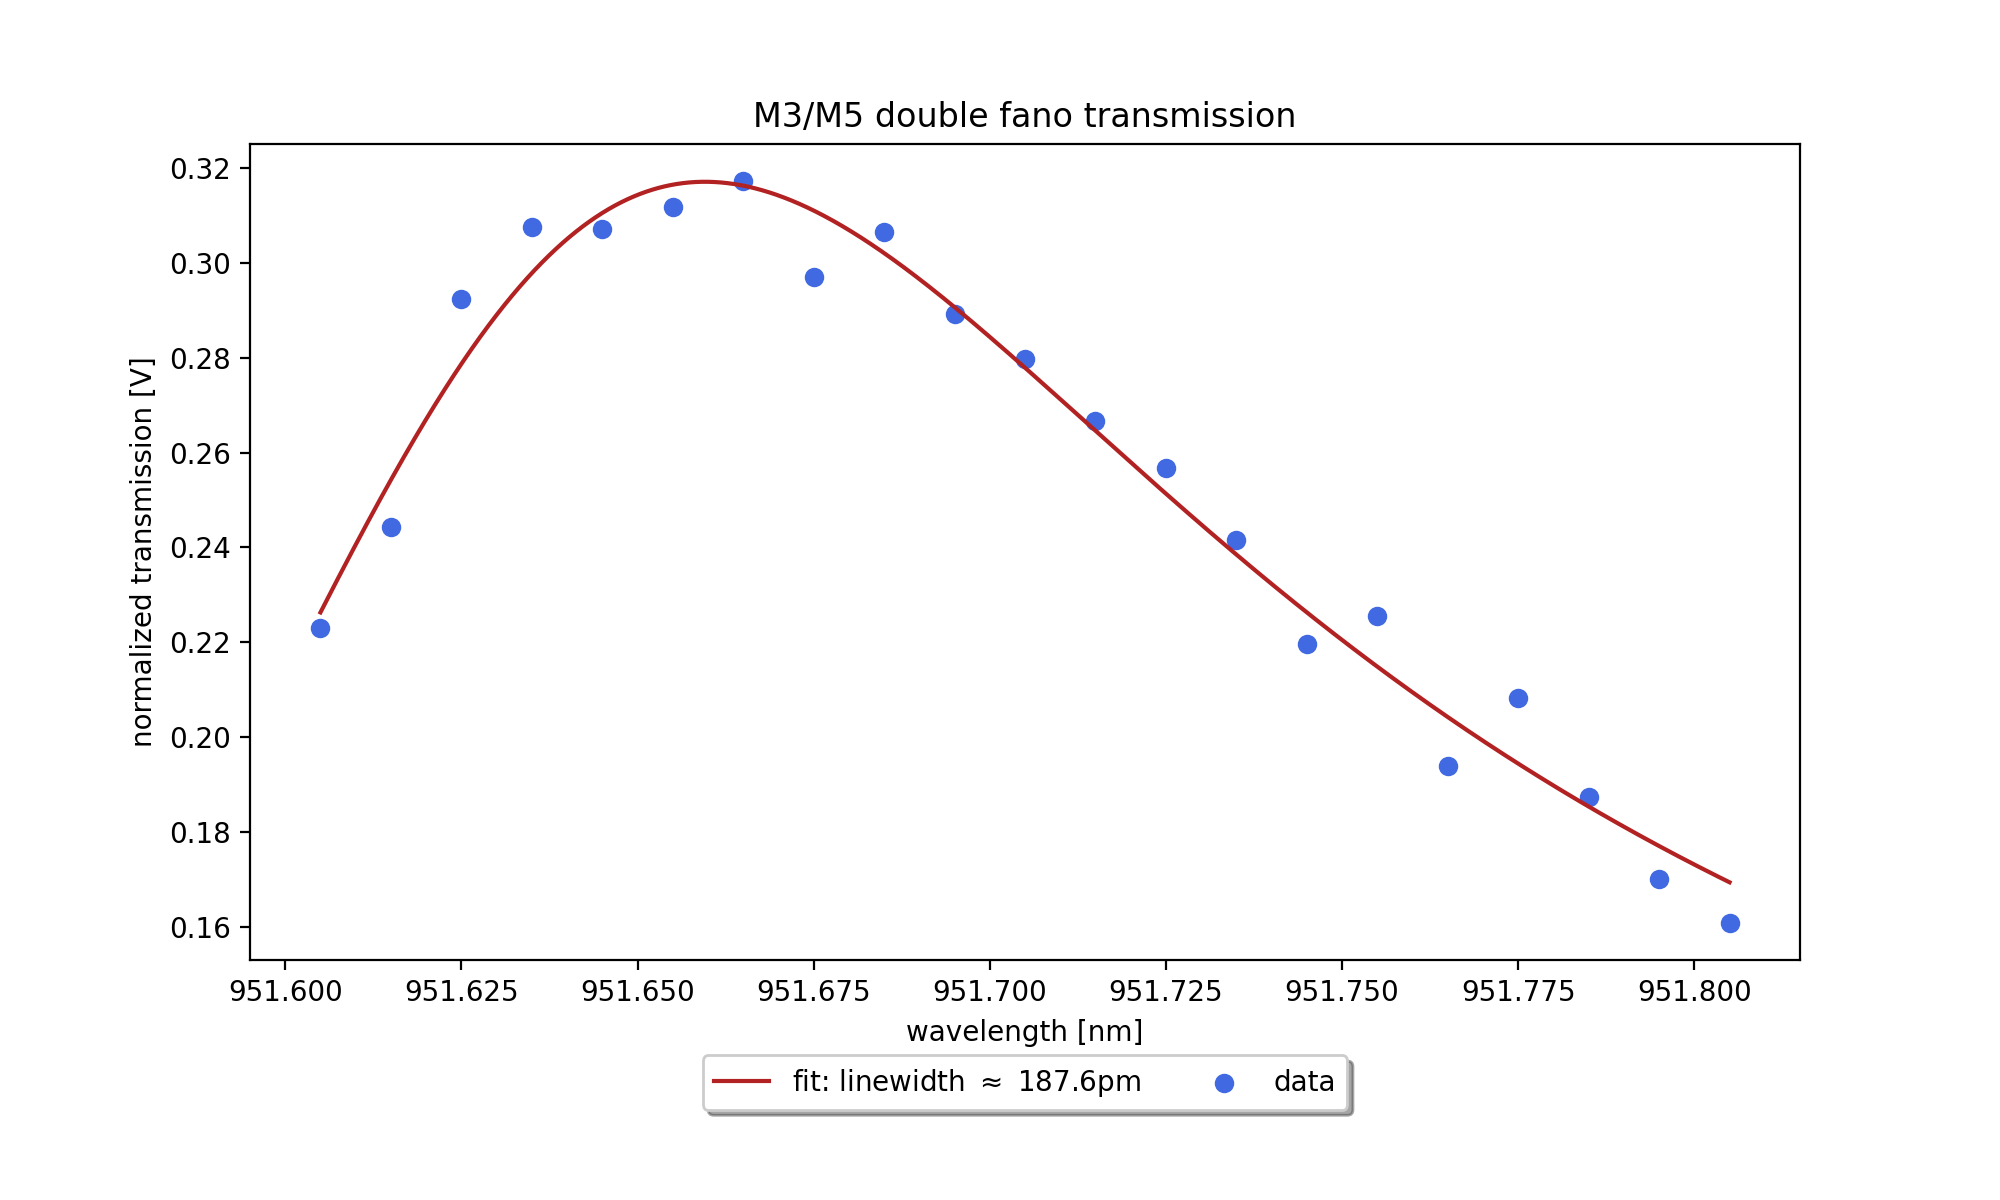
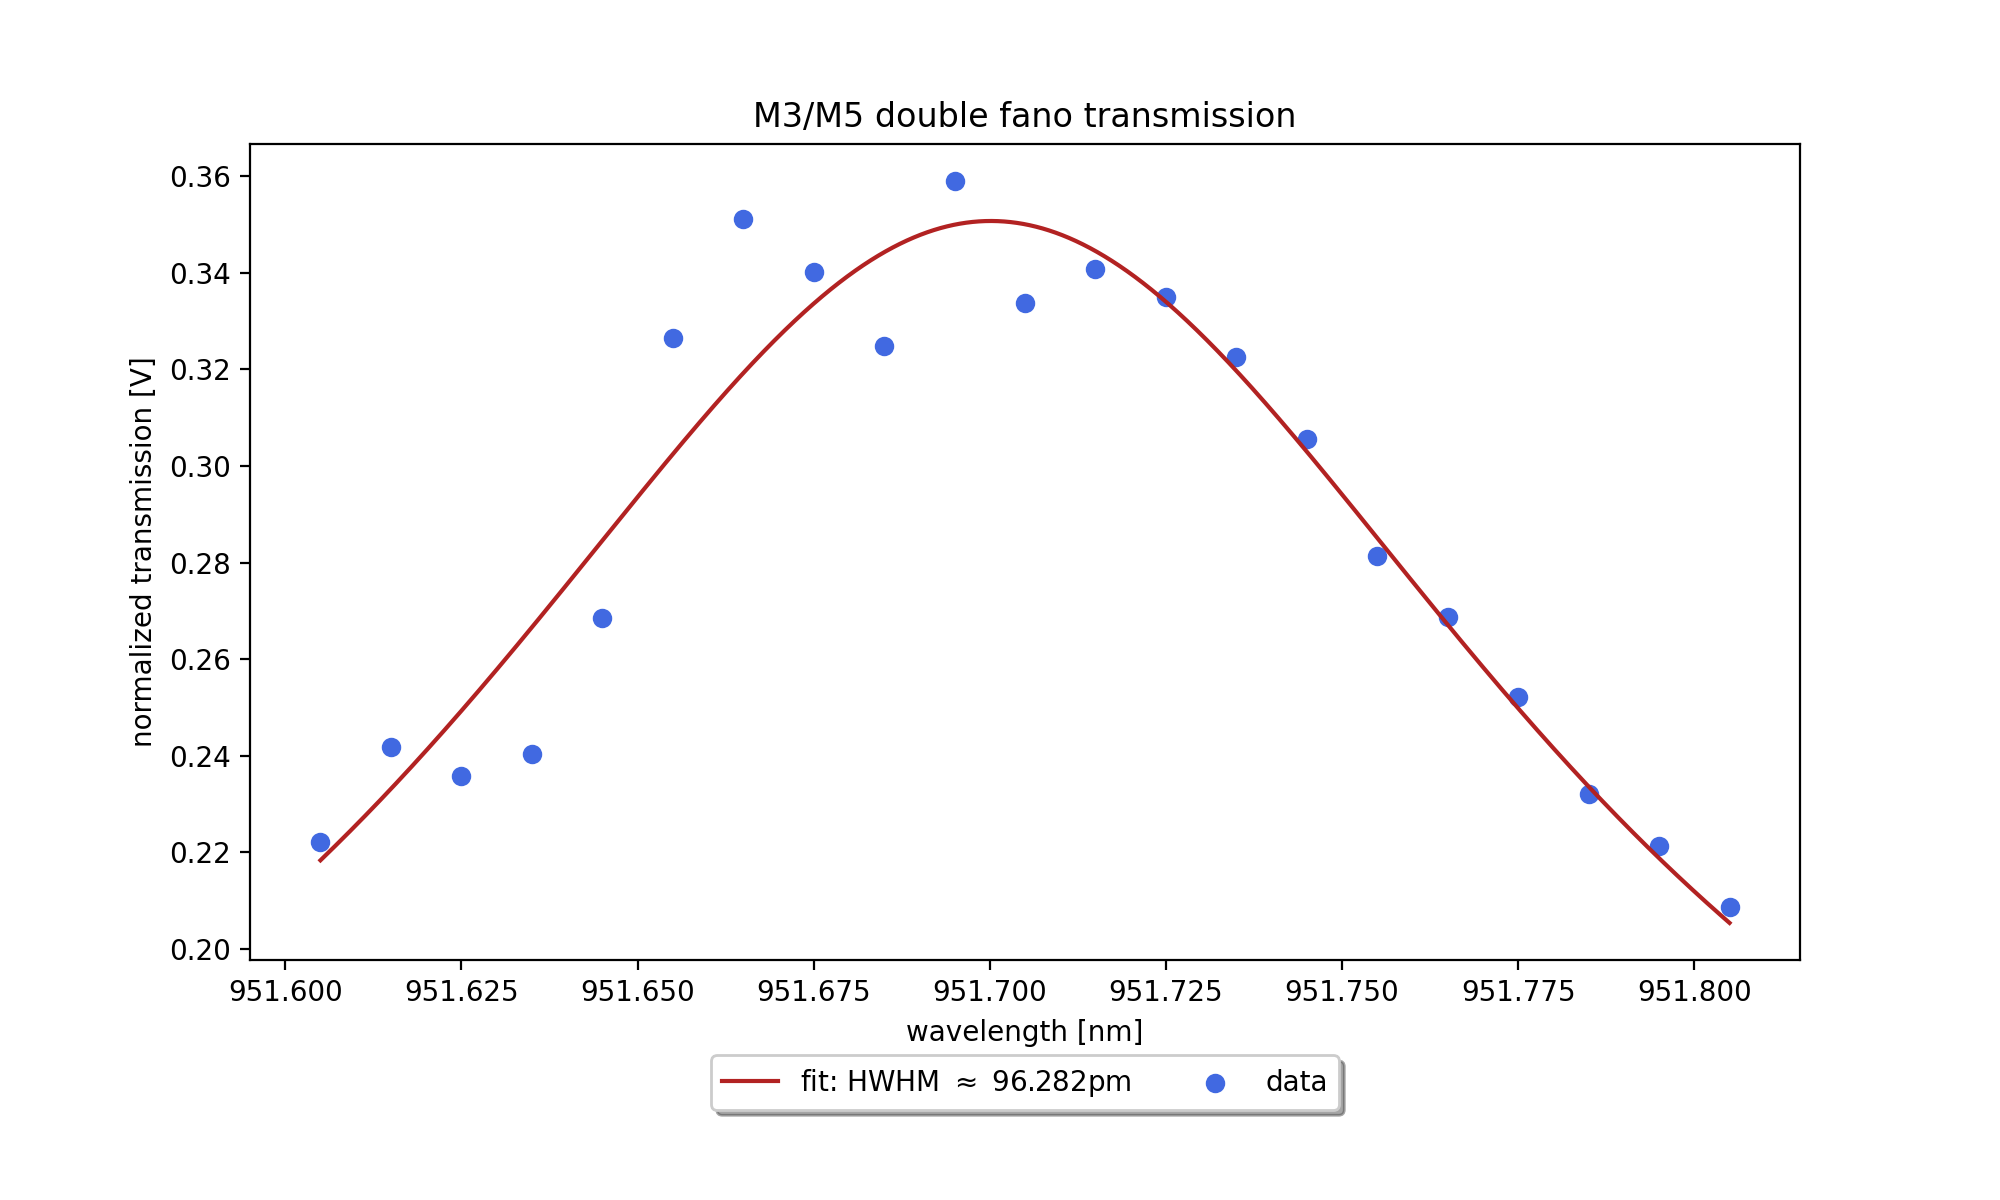
-

diff --git a/cavity_linewidth.py b/cavity_linewidth.py
@@ -1,24 +1,109 @@
 import numpy as np
 import matplotlib.pyplot as plt
+from fano_class import fano
+from scipy.optimize import fsolve
+
+def model(λ, λ0, λ1, td, γλ, β): 
+    k = 2*np.pi / λ
+    k0 = 2*np.pi / λ0
+    k1 = 2*np.pi / λ1
+    γ = 2*np.pi / λ1**2 * γλ
+    t = td * (k - k0 + 1j * β) / (k - k1 + 1j * γ)
+    return np.abs(t)**2
+
+def theoretical_reflection_values(params: list, losses=True, loss_factor=0.03):
+    λ0s, λ1s, tds, γλs, βs = params
+    γs = 2*np.pi / λ1s**2 * γλs
+    a = tds * ((2*np.pi / λ1s) - (2*np.pi / λ0s) + 1j*βs - 1j*γs)
+    xas = np.real(a)
+    yas = np.imag(a)
+
+    if losses == True:
+        L = loss_factor
+    if losses == False:
+        L = 0
+
+    c_squared = L * (γs**2 + (2*np.pi/λ0s - 2*np.pi/λ1s)**2)
+
+    rds = np.sqrt(1 - tds**2)
+    xbs = -(xas * tds / rds)
+
+    def equations(vars):
+        yb = vars
+        return xas**2 + yas**2 + xbs**2 + yb**2 + 2 * γs * rds * yb + 2 * γs * tds * yas + c_squared
+    yb_initial_guess = 0.5
+    ybs = fsolve(equations, yb_initial_guess)
+
+    r = []
+    for λ_val in λs:
+        r_val = rds + (xbs + 1j * ybs) / (2 * np.pi / λ_val - 2 * np.pi / λ1s+ 1j * γs)
+        r.append(r_val)
+    r = np.array(r)
+    reflectivity_values = np.abs(r)**2
+    complex_reflectivity_amplitudes = r
+
+    return (reflectivity_values, complex_reflectivity_amplitudes)
+
+M3 = fano("/Users/mikkelodeon/optomechanics/400um gratings/Data/M3/400_M3 trans.txt")
+M5 = fano("/Users/mikkelodeon/optomechanics/400um gratings/Data/M5/400_M5 trans.txt")
+λ0_1, λ1_1, td_1, γ_1, α_1 = M3.lossy_fit([952,952,0.6,1,0.1])
+λ0_2, λ1_2, td_2, γ_2, α_2 = M5.lossy_fit([952,952,0.6,1,0.1])
+
+#print(λ0_1-λ1_1)
+#print(λ0_2-λ1_2)
+λ0_1 = 951.535 #551.535
+λ1_1 = 951.535 + 0.14
+λ0_2 = 951.875
+λ1_2 = 951.875 + 0.15
+
+λs = np.linspace(M3.data[:,0][0], M3.data[:,0][-1], 1000)
+
+M3_params = [λ0_1, λ1_1, td_1, γ_1, α_1]
+M5_params = [λ0_2, λ1_2, td_2, γ_2, α_2]
+
+rs_M3 = theoretical_reflection_values(M3_params, losses=True, loss_factor=0.03)[0]
+rs_M5 = theoretical_reflection_values(M5_params, losses=True, loss_factor=0.03)[0]
+ts_M3 = model(λs, *M3_params)
+ts_M5 = model(λs, *M5_params)
+
+idx = int((list(rs_M3).index(np.max(rs_M3)) + list(rs_M5).index(np.max(rs_M5)))/2)
+#idx = int(list(rs_M3).index(np.max(rs_M3)))
+#idx = int(list(rs_M5).index(np.max(rs_M5)))
+
+rt_M3 = rs_M3[idx]
+rt_M5 = rs_M5[idx]
+tt_M3 = ts_M3[idx]
+tt_M5 = ts_M5[idx]
+print(rt_M3)
+print(rt_M5)
+print(tt_M3)
+print(tt_M5)
+
+print(idx)
 
 ## resonance wavelength [nm -> m]
-λres = 951.707e-9 #955.572e-9
+λres = (λ0_1*1e-9 + λ0_2*1e-9)/2 #955.572e-9
 ## length of cavity [μm -> m]
 l = np.linspace(10,300,10000)*1e-6
 ## losses in cavity
-L = 0.18
+#L = 0.15
+L = (1- rt_M3 - tt_M3) + (1 - rt_M5 - tt_M5)
+print("L: ",L)
 ## width of guided mode resonance [nm -> m]
-γλ = 0.485*1e-9
+γλ = (γ_1*1e-9 + γ_2*1e-9)/2#0.485*1e-9
 ## direct (off-resonance) reflectivity (from norm. trans/ref fit)
-rd = np.sqrt(0.576)
+rd = np.sqrt(((0.57+0.575)/2))#np.sqrt(0.576)
+#print(rd)
 ## Grating transmission at resonance
-Tg = 0.049
+Tg = tt_M3#0.049
 ## Broadband mirror transmission at resonance
-Tm = 0.049
+Tm = tt_M5#0.049
+
+print(Tg, Tm)
 
 def lw_mirror(l: int, λres: float, L: float, Tg: float, Tm: float): 
     δγc = (λres**2/(8*np.pi*l)) * (Tg + Tm + L) 
-    return δγc 
+    return δγc
 
 def lw_fano(l: int, λres: float, L: float, γλ: float, rd: float, Tg: float, Tm: float): 
     δγc = (λres**2)/(8*np.pi*l) * (Tg + Tm + L) 
@@ -34,25 +119,29 @@ def double_fano(l: int, λres: float, L: float, γλ: float, rd: float, Tg: floa
 
 #lengths = np.array([900])*1e-6 # cavity lengths
 
-lengths = np.array([21,34,43,59,129,238])*1e-6
+#lengths = np.array([21,34,43,59,129,238])*1e-6
 #lengths = np.array([20.1,30.18,40.04,59.08,139,238.9])*1e-6
 #for length in lengths:
 #    linewidth = 2*lw_fano(length,λres,L,γλ,rd,Tg,Tm)
 #    print("length of fano cavity: ", round(length*1e6,1), "μm", " -> ", "theoretical linewidth: ", round(linewidth*1e12,1), "pm")
 
-lws = np.array([291.28,173.5,187.6,180.4,129.2,96.63])*1e-12 # linewidths in pm
+#lws = np.array([291.28,173.5,187.6,180.4,129.2,96.63])*1e-12*0.5 # linewidths in pm
 
-### old 34um linewidth was ~380pm
+lengths = np.array([21, 34, 43, 59, 129, 238])*1e-6
+lws = np.array([148.169, 86.019, 96.282, 86.945, 65.258, 49.974])*1e-12
 
 plt.figure(figsize=(10,6))
 
-plt.plot(l*1e6,2*lw_mirror(l,λres,L,Tg,Tm)*1e12, label="broadband cavity")
-plt.plot(l*1e6,2*lw_fano(l,λres,L,γλ,rd,Tg,Tm)*1e12, label="single fano cavity")
-plt.plot(l*1e6,2*double_fano(l,λres,L,γλ,rd,Tg,Tm)*1e12, label="double fano cavity")
+plt.plot(l*1e6,lw_mirror(l,λres,0.08,0.049,0.049)*1e12, label="broadband cavity")
+plt.plot(l*1e6, double_fano(l,λres,0.08,γλ,rd,0.049,0.049)*1e12, label="symmetric double fano")
+plt.plot(l*1e6,lw_fano(l,λres,0.08,γλ,rd,0.049,0.049)*1e12, label="ideal single fano cavity")
+plt.plot(l*1e6,double_fano(l,λres,L,γλ,rd,Tg,Tm)*1e12, label="asymmetric double fano cavity")
 plt.plot(lengths*1e6,lws*1e12, "ro", label="measured linewidths (double fano)")
-plt.title("FWHM as a function of cavity length")
+#plt.plot(λs, rs_M3)
+#plt.plot(λs, rs_M5)
+plt.title("HWHM as a function of cavity length")
 plt.xlabel("Cavity length [μm]")
-plt.ylabel("FWHM [pm]")
+plt.ylabel("HWHM [pm]")
 plt.xscale("log")
 plt.yscale("log")
 plt.legend()

diff --git a/fano_fit.py b/fano_fit.py
@@ -6,10 +6,10 @@ from scipy.optimize import fsolve
 
 ### Load data from .txt file
 
-data = np.loadtxt("/Users/mikkelodeon/optomechanics/Double fano cavity/M3+M5/data/20250211/34um/34s.txt")#[15:-17]
-PI_data = np.loadtxt("/Users/mikkelodeon/optomechanics/Double fano cavity/M3+M5/data/20250211/34um/34s_PI.txt")#[15:-17]
-norm = np.loadtxt("/Users/mikkelodeon/optomechanics/Double fano cavity/M3+M5/data/20250211/normalization/short_scan.txt")#[15:-17]
-norm_PI = np.loadtxt("/Users/mikkelodeon/optomechanics/Double fano cavity/M3+M5/data/20250211/normalization/short_scan_PI.txt")#[15:-17]
+data = np.loadtxt("/Users/mikkelodeon/optomechanics/Double fano cavity/M3+M5/data/20250211/34um/34l.txt")[14:-17]
+PI_data = np.loadtxt("/Users/mikkelodeon/optomechanics/Double fano cavity/M3+M5/data/20250211/34um/34l_PI.txt")[14:-17]
+norm = np.loadtxt("/Users/mikkelodeon/optomechanics/Double fano cavity/M3+M5/data/20250211/normalization/long_scan.txt")[14:-17]
+norm_PI = np.loadtxt("/Users/mikkelodeon/optomechanics/Double fano cavity/M3+M5/data/20250211/normalization/long_scan_PI.txt")[14:-17]
 PI_0 = PI_data[0,1]
 data[:,1] = [dat/(PI/PI_0) for dat,PI in zip(data[:,1], PI_data[:,1])]  ##  correcting for any fluctuations in laser power over time
 norm[:,1] = [N/(PI/PI_0) for N,PI in zip(norm[:,1], norm_PI[:,1])]      ##  from the main measurement to the normalization measurement.  
@@ -38,6 +38,11 @@ def model(λ, λ0, λ1, td, γλ, β):
     γ = 2*np.pi / λ1**2 * γλ
     t = td * (k - k0 + 1j * β) / (k - k1 + 1j * γ)
     return np.abs(t)**2
+
+def fit_model(λ, a, b, c, λ0, δλ): 
+    γ = 1 - c*((λ-λ0)/δλ)
+    t = (a/(1 + ((λ-λ0)/(δλ*γ))**2)) + b
+    return t
 
 ### Calculating the simulated reflection values 
 
@@ -101,12 +106,13 @@ def double_fano(λs , λ0_1, λ1_1, td_1, γ_1, α_1, λ0_2, λ1_2, td_2, γ_2, 
 
 ### Fitting loaded data to the double fano transmission function
 
-p0 = [λ0_1, λ1_1, td_1, γ_1, α_1, λ0_2, λ1_2, td_2, γ_2, α_2, 30e3, 0.05]
-#p0 = [951.7,951.7,0.8,0.01,1e-5]
+#p0 = [λ0_1, λ1_1, td_1, γ_1, α_1, λ0_2, λ1_2, td_2, γ_2, α_2, 30e3, 0.05]
+#p0 = [951.7,951.7,0.8,0.01,1e-5,0.04]
+p0 = [0, 0.1, 0, 951.72, 100e-3]
 
-popt,pcov = curve_fit(double_fano, data[:,0], data[:,1], p0=p0, maxfev=10000000)
-#popt,pcov = curve_fit(model, data[:,0], data[:,1], p0=p0, maxfev=10000000)
-fit_params = [popt[0], popt[1], popt[5], popt[6], popt[10]*1e-3]
+#popt,pcov = curve_fit(double_fano, data[:,0], data[:,1], p0=p0, maxfev=10000000)
+popt,pcov = curve_fit(fit_model, data[:,0], data[:,1], p0=p0, maxfev=100000)
+#fit_params = [popt[0], popt[1], popt[5], popt[6], popt[10]*1e-3]
 print("popt:",popt)
 print("p0 =", p0)
 
@@ -114,8 +120,8 @@ xs = np.linspace(data[:,0][0], data[:,0][-1], 10000)
 
 plt.figure(figsize=(10,6))
 plt.scatter(data[:,0], data[:,1], color="royalblue", label="data", zorder=1)
-plt.plot(xs, double_fano(xs, *popt), color="firebrick", label="fit: $λ_{0,M5}=$%5.3fnm, $λ_{1,M5}=$%5.3fnm, $λ_{0,M3}=$%5.3fnm, $λ_{1,M3}=$%5.3fnm, $l_{c}$=%5.3fμm" % tuple(fit_params))
-#plt.plot(xs, model(xs, *popt), color="firebrick", label="fit: linewidth $\\approx$ %spm" % str(round(2*popt[3]*1e3,3)))
+#plt.plot(xs, double_fano(xs, *popt), color="firebrick", label="fit: $λ_{0,M5}=$%5.3fnm, $λ_{1,M5}=$%5.3fnm, $λ_{0,M3}=$%5.3fnm, $λ_{1,M3}=$%5.3fnm, $l_{c}$=%5.3fμm" % tuple(fit_params))
+plt.plot(xs, fit_model(xs, *popt), color="firebrick", label="fit: HWHM $\\approx$ %spm" % str(round(np.abs(popt[4])*1e3,3)))
 plt.title("M3/M5 double fano transmission")  
 plt.xlabel("wavelength [nm]")
 plt.ylabel("normalized transmission [V]")
